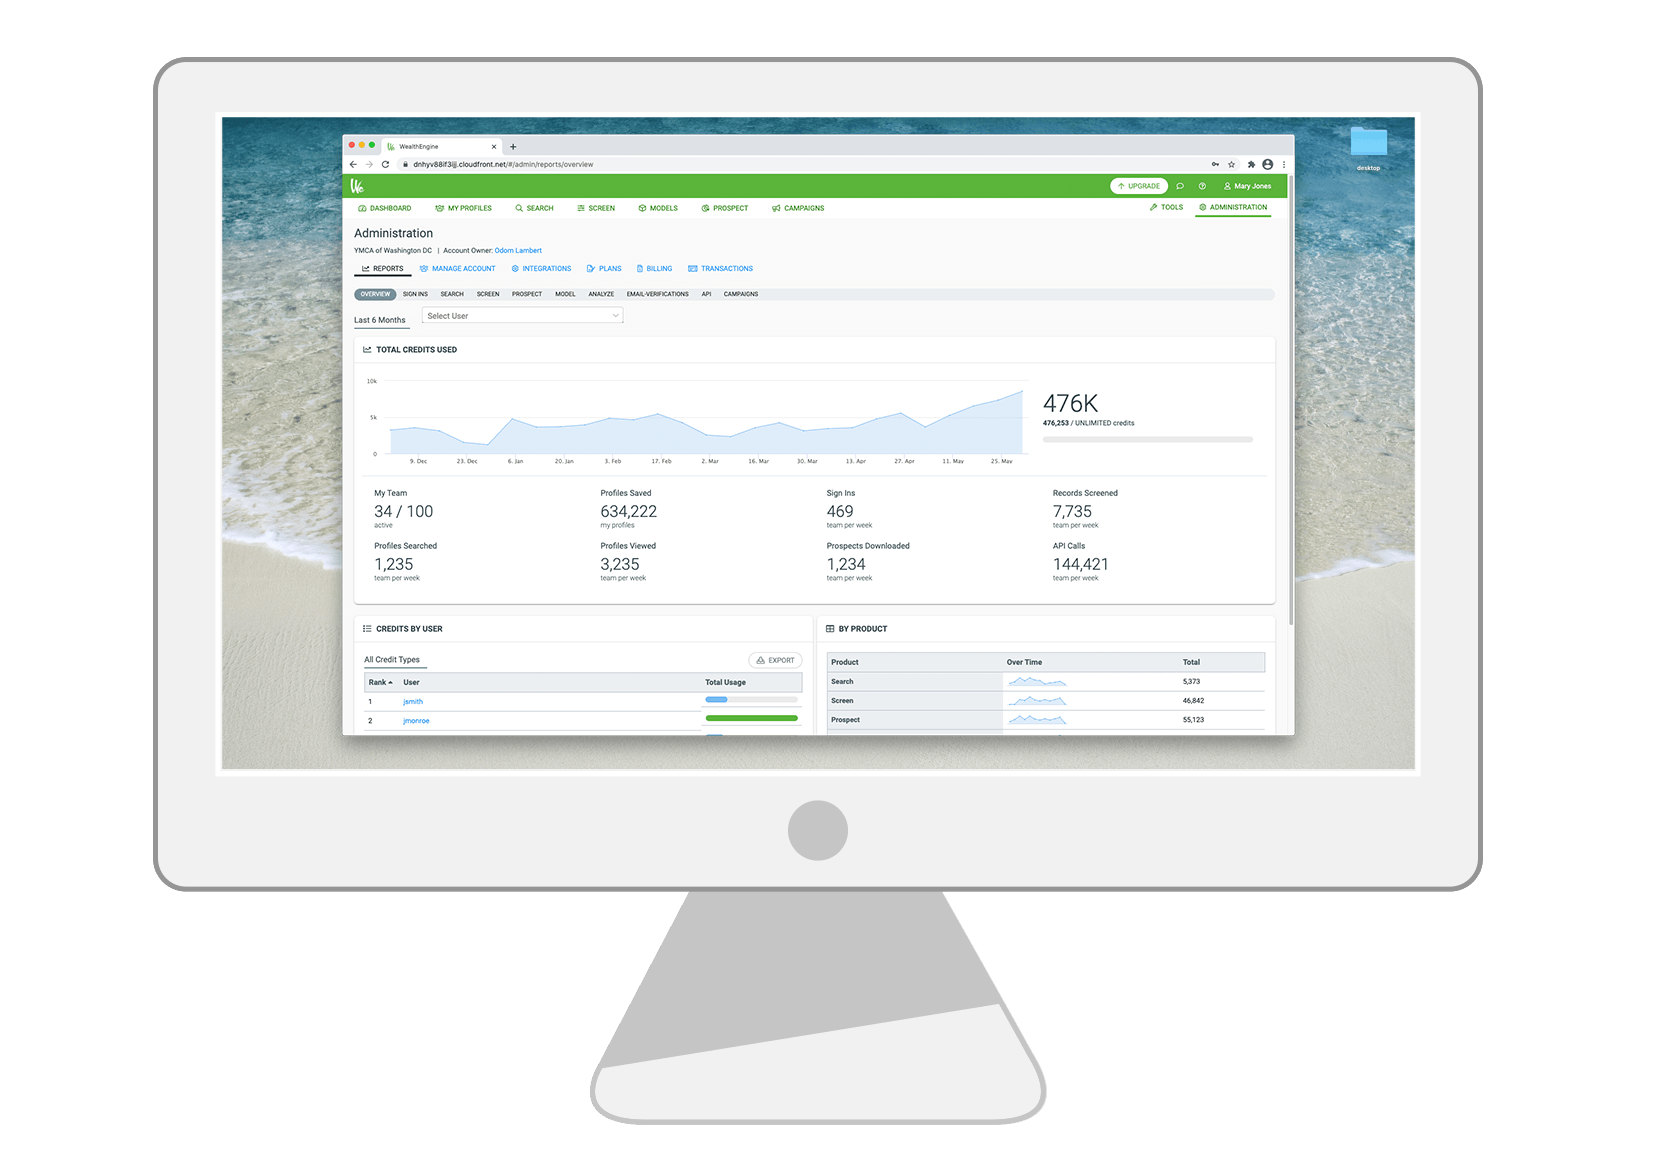
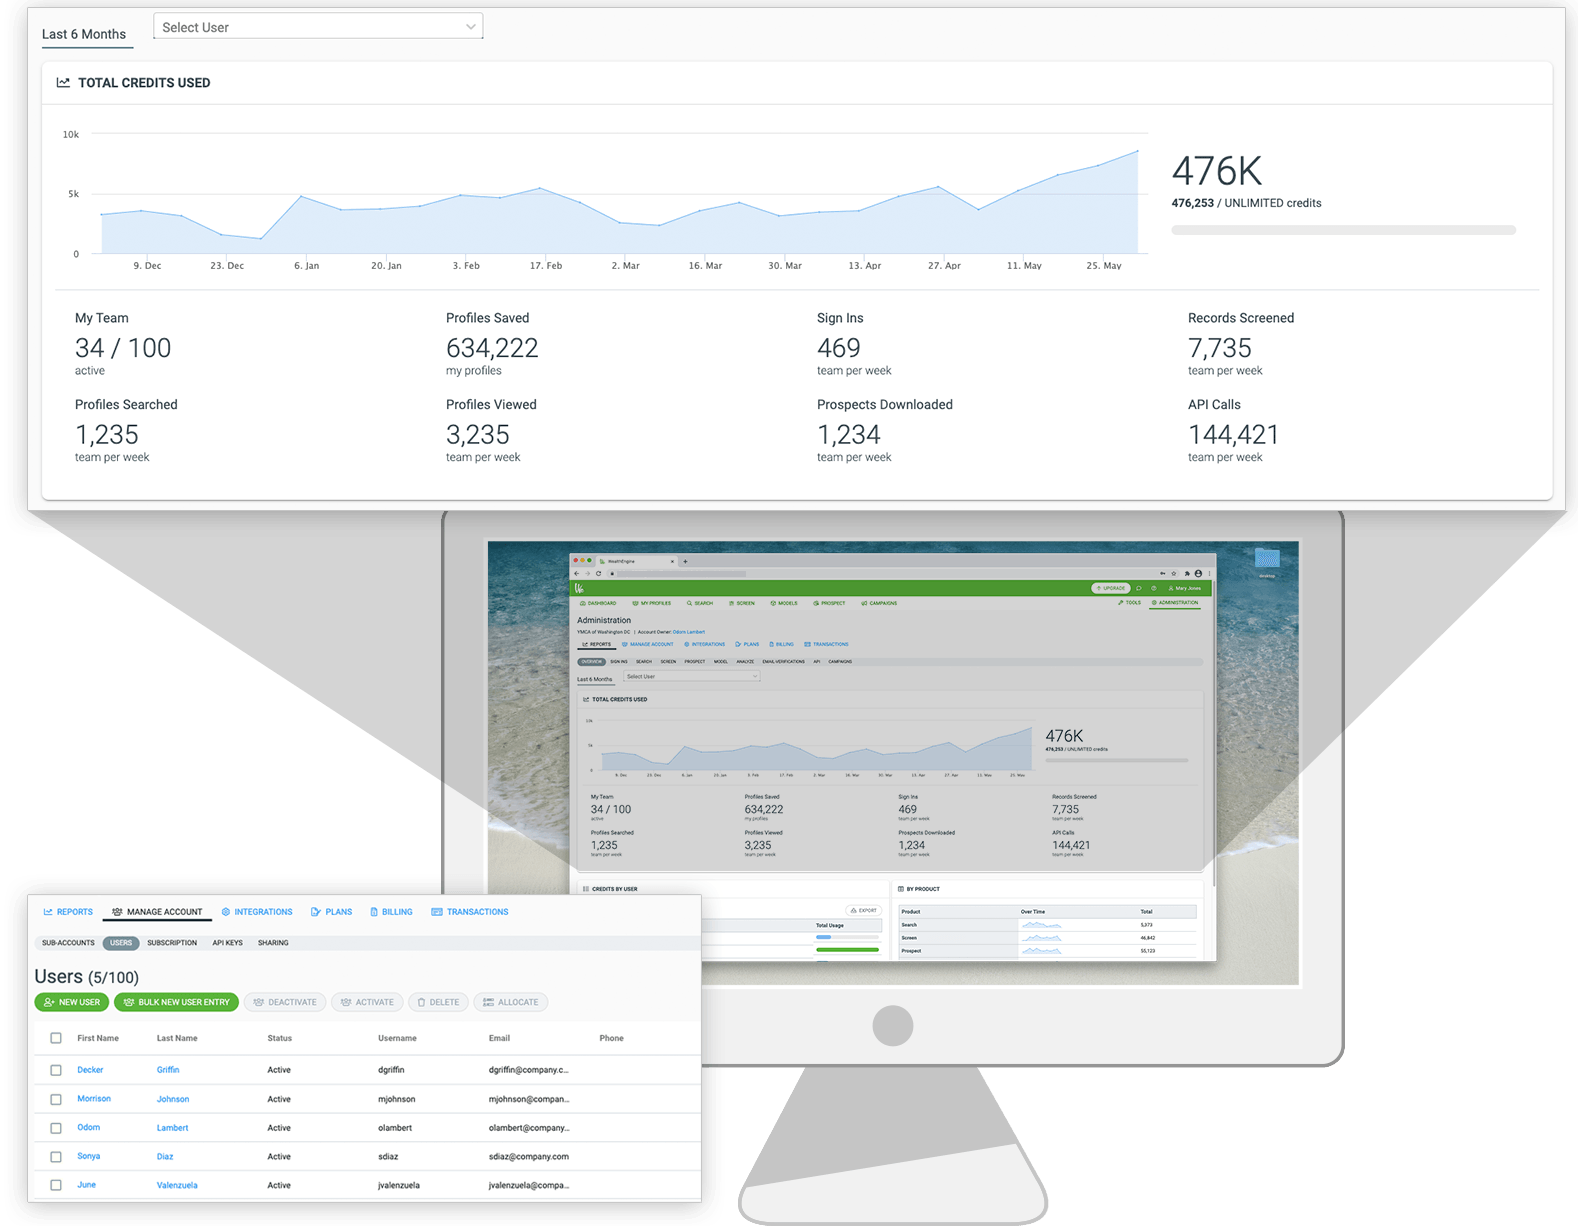
updates to content and images

diff --git a/src/content.js b/src/content.js
@@ -3,20 +3,13 @@ import github from '@iconify/icons-foundation/social-github';
 import twitter from '@iconify/icons-foundation/social-twitter';
 import email from '@iconify/icons-mdi/email';
 import { Icon } from '@iconify/react';
-import we from './img/portfolio/we.png';
 import weAdmin from './img/portfolio/we-admin.png';
 import weMatchStats from './img/portfolio/we-match-stats.png';
-// import weAdmin1 from './img/portfolio/admin-overview.png';
-// import weAdmin2 from './img/portfolio/admin-search.png';
-// import weAdmin3 from './img/portfolio/admin-screen.png';
-// import weAdmin4 from './img/portfolio/admin-plans.png';
-// import weAdmin5 from './img/portfolio/admin-users.png';
+import weP2G from './img/portfolio/we-p2g.png';
+import weProspect from './img/portfolio/we-prospect.png';
 import tempora from './img/portfolio/tempora.png';
-import wyr1 from './img/wyr1.jpg';
-import wyr2 from './img/wyr2.jpg';
-import wyr3 from './img/wyr3.jpg';
 import kc from './img/portfolio/keycaliber.png';
-import kc2 from './img/portfolio/kc2.png';
+import kcProduct from './img/portfolio/keycaliber-product.png';
 
 export const ABOUT = {
     title: "Frontend Developer",
@@ -39,14 +32,11 @@ export const WORK = [
         title: "KeyCaliber",
         description: "I built wireframes, UI and data visualizations for this cybersecurity startup's SaaS product and public marketing website.",
         time: 'August 2020 - Present',
-        images: [
-            
-        ],
         projects: [
             {
                 title: "Marketing Website", 
                 link: "https://www.keycaliber.com",
-                description: 'Description for the KeyCaliber marketing website.', 
+                description: 'Developed wireframes and frontend code including custom interactive elements for public marketing website. Coordinated with VP of Engineering to ensure a successful deployment.', 
                 headerImg: kc, 
                 technologies: [
                     "HTML", "CSS", "JavaScript", "React", "React Router", "Responsive Design"
@@ -56,11 +46,13 @@ export const WORK = [
                 ]
             }, {
                 title: "Software-as-a-Service Product", 
-                description: 'Description for the KeyCaliber SaaS Product.', 
+                description: "Built wireframes and front-end code for a redesign of the KeyCaliber Product with Material UI and the Nivo dataviz library. Read more about the product on the public website.", 
+                link: "https://www.keycaliber.com/#/product",
                 images: null,
                 technologies: [
-                    "HTML", "CSS", "JavaScript", "React", "React Router", "Material UI", "nivo"
-                ]
+                    "HTML", "CSS", "JavaScript", "React", "React Router", "Material UI", "Nivo"
+                ],
+                headerImg: kcProduct
             }
         ]
     },
@@ -68,9 +60,7 @@ export const WORK = [
         title: "WealthEngine",
         time: 'April 2014 - June 2020',
         description: "I established, maintained and documented a UI pattern library for the WealthEngine data analytics platform. This served to organize the code and streamline frontend development by providing the team with reusable components and layouts.", 
-        images: [
-            we
-        ],
+        link: ['https://www.wealthengine.com/about', 'About WealthEngine'],
         projects: [
             {
                 title: "WE Admin",
@@ -88,17 +78,16 @@ export const WORK = [
                 title: "Wealth Analysis Summary",
                 description: "Created a dashboard for aggregate visual analysis of any number of system wealth profiles. Built several data visualization widgets using React.",
                 headerImg: weMatchStats,
-                images: [
-                ],
+                images: null,
                 technologies: [
                     "HTML", "CSS", "Sass/scss",  "JavaScript", "React"
                 ]
             },
             {
                 title: "Propensity to Give (P2G) by Category",
-                description: "Built analysis widget for WealthEngine’s proprietary P2G score, broken out by Category.",
-                images: [
-                ],
+                description: "Built analysis widget for WealthEngine’s proprietary P2G score, broken out by category.",
+                headerImg: weP2G,  
+                images: null,
                 technologies: [
                     "HTML", "CSS", "Sass/scss",  "JavaScript", "React"
                 ]
@@ -106,6 +95,7 @@ export const WORK = [
             {
                 title: "WE Prospect",
                 description: "Developed a visual audience builder. The tool allows users to query and segment WealthEngine’s Data Graph into custom audiences.",
+                headerImg: weProspect, 
                 images: [
                 ],
                 technologies: [
@@ -116,27 +106,27 @@ export const WORK = [
     },
     {
         title: "Side Projects",
-        time: "2018 - Present", 
-        description: '', 
+        time: "2020 - Present", 
         projects: [{
                 title: "Centering Prayer App",
-                description: "Worked with a friend to implement his vision for an app to aid spiritual seekers in centering prayer. The app features simple background color animations and custom audio for each meditation. Each meditation presents a consistent audio format: a bell rings, a text is read, then the bell rings a second time. The user is then invited to meditate on the passage. At the end the bells and text are played again.",
+                description: "Worked with a friend to develop a webapp which aids spiritual seekers in centering prayer. I created background color animations to transition between the pages with CSS and React-Router. Each meditation presents a consistent audio format with bells and readings, accomplished via timers and React hooks.",
                 link: "https://main.d15b5ad74h55z7.amplifyapp.com/app",
                 headerImg: tempora,
                 technologies: [
                     "HTML", "CSS", "JavaScript", "React", "React Router", "Responsive Design"
                 ]
-            },{
-                title: "Would You Rather App ",
-                description: "This project was for the Udacity React Nanodegree. The assignment was to build an app which would allow users to create “Would You Rather” questions and also to vote on them. The demo features three made-up users.",
-                link: "https://master.d2jo2yzx5ypc0r.amplifyapp.com/",
-                images: [
-                    wyr1, wyr2, wyr3
-                ],
-                technologies: [
-                    "HTML", "CSS", "JavaScript", "React"
-                ]
-            }
+            },
+            // {
+            //     title: "Would You Rather App ",
+            //     description: "This project was for the Udacity React Nanodegree. The assignment was to build an app which would allow users to create “Would You Rather” questions and also to vote on them. The demo features three made-up users.",
+            //     link: "https://master.d2jo2yzx5ypc0r.amplifyapp.com/",
+            //     images: [
+            //         wyr1, wyr2, wyr3
+            //     ],
+            //     technologies: [
+            //         "HTML", "CSS", "JavaScript", "React"
+            //     ]
+            // }
         ]
     }
 ]

diff --git a/src/App.js b/src/App.js
@@ -1,4 +1,4 @@
-import React, {useState} from 'react';
+import React, {useState, Fragment} from 'react';
 import './App.css';
 import { ABOUT, WORK, TESTIMONIALS } from './content';
 import ben from './img/lego-ben.jpg';
@@ -106,8 +106,8 @@ function App() {
                     
                     <p className="mb-2">{p.description}</p>
                       {p.link && 
-                        <a href={p.link} rel="noreferrer" target="_blank" style={{alignItems: 'center', display: 'flex'}}>
-                          View Site 
+                        <a href={p.link[0]} rel="noreferrer" target="_blank" style={{alignItems: 'center', display: 'flex'}}>
+                          {p.link[1]}
                           <Icon icon={rightArrow} width="18px" className="ml-1" /> 
                         </a>
                       }    
@@ -123,7 +123,7 @@ function App() {
                               <i>{t}</i></li>
                           )}
                         </ul>
-                        <div className="columns">
+                        <div className="columns main-columns">
                           <div className={`mb-4 px-4 column is-one-third`}>
                             <p className="mb-2">{project.description}</p>
                             {project.link && 
@@ -143,15 +143,22 @@ function App() {
                           </div>
                       </div>
                     </div>
-                    <div className="columns">
                       {
                         project.images && project.images.map((img,i) => 
-                          <div className={`column ${img[1]}`}>
-                            <img src={img[0]} alt="" />
+                          <div className="columns">
+                            <div className={`column ${img[1]}`}>
+                              <img src={img[0]} alt="" />
+                            </div>
+                            {
+                              img[2] && 
+                                <div className={`column ${img[3]}`}>
+                                  <p>{img[2]}</p>
+                                </div>
+                                
+                            }
                           </div>
                         )
                       }
-                    </div>
                     {
                       project.images && project.thumbnails && 
                       <img src={project.images[0]} alt="" />

diff --git a/src/App.css b/src/App.css
@@ -249,7 +249,7 @@ h1.title svg {
   margin: 0 1rem 1rem 0;
 }
 
-.sub-section.reverse .columns {
+.sub-section.reverse .main-columns.columns {
   flex-direction: row-reverse;
 }
 
